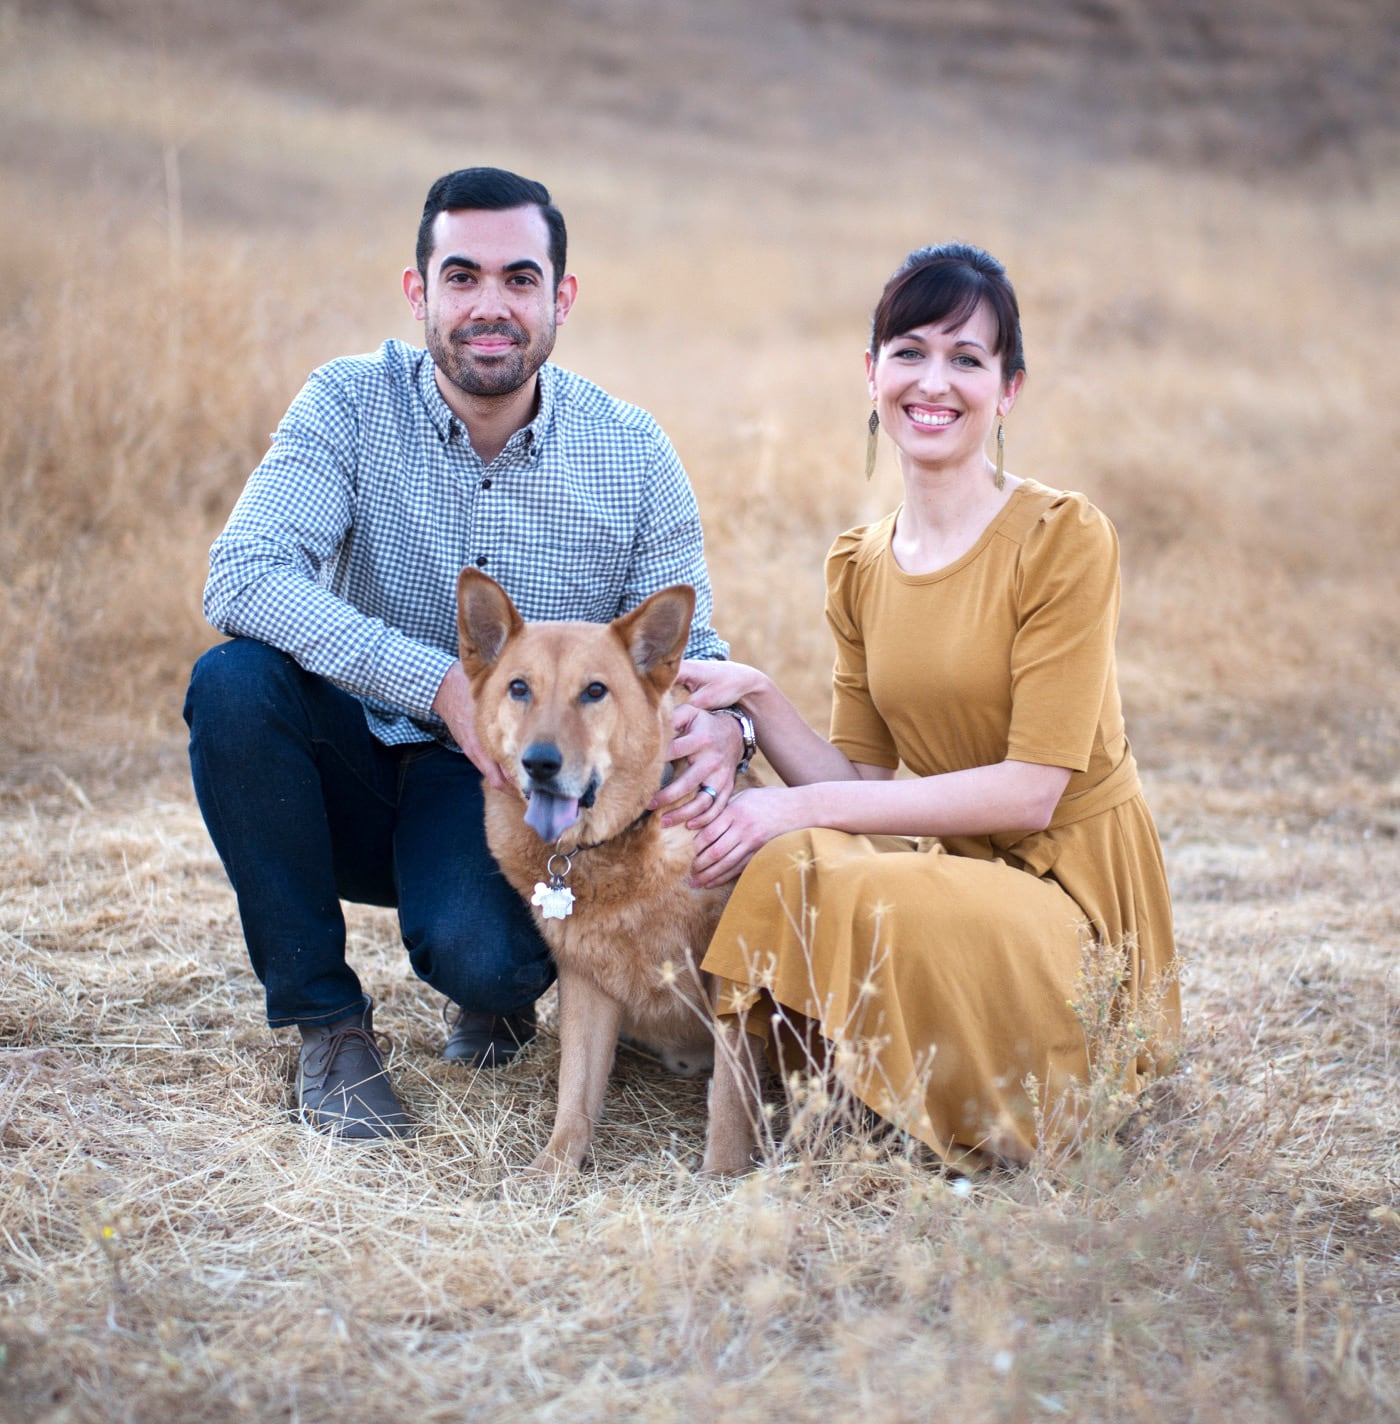
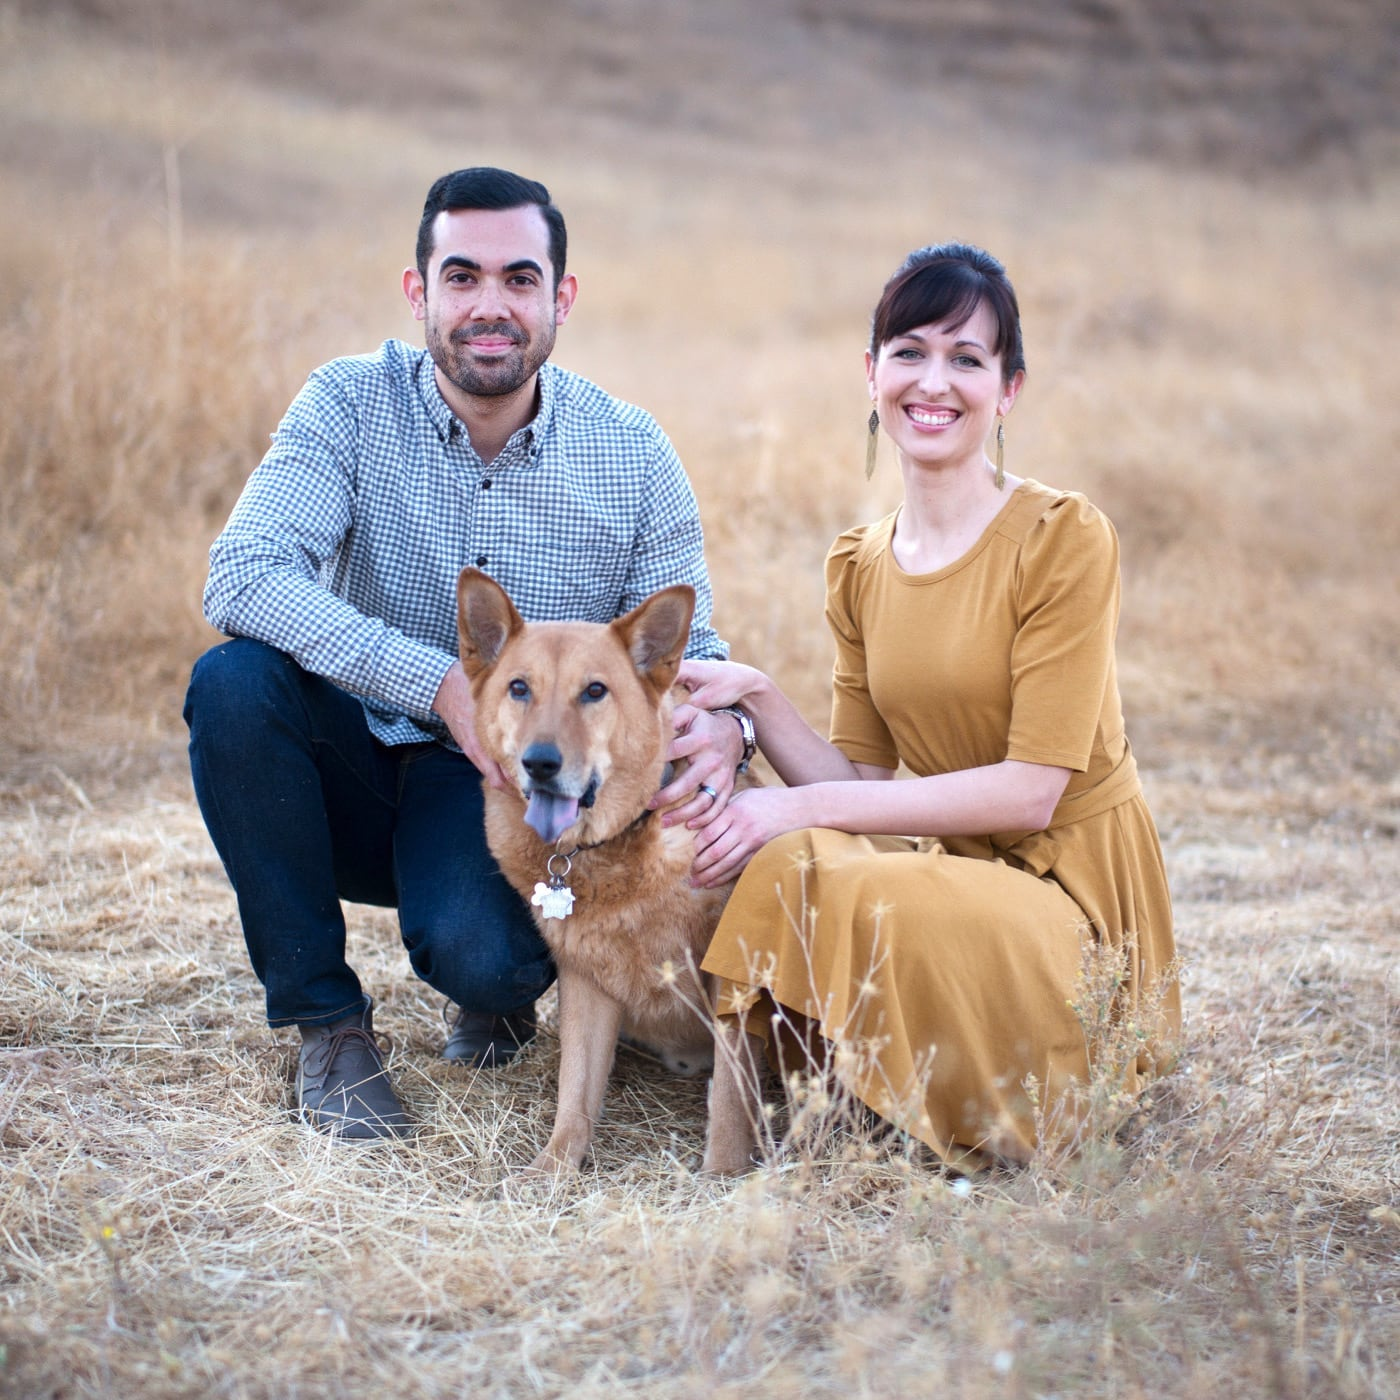
Fixed images again
Made them all ~square sizes so that they'll scale correctly with explicitly set height attributes

Changed region(s): [[0.0, 0.0921, 1.0, 1.0], [0.0, 0.3993, 0.0307, 0.43]]

diff --git a/css/styles.css b/css/styles.css
@@ -138,8 +138,8 @@ sub, sup {
   box-sizing: border-box;
   border-radius: 0.75em;
   transition: all 0.2s ease-in-out;
-  max-width: 100%;
-  height: 250px; }
+  margin: 1em 0;
+  height: 260px; }
   .home .image-item {
     height: auto;
     margin: auto; }
@@ -218,7 +218,7 @@ sub, sup {
     flex-direction: column; }
   .image-item {
     margin: 1em auto;
-    max-width: 100%;
+    width: 100%;
     height: auto; }
   a {
     word-break: break-word; }

diff --git a/css/3-layout/_layout.sass b/css/3-layout/_layout.sass
@@ -21,10 +21,9 @@
   box-sizing: border-box
   border-radius: $radius
   transition: all 0.2s ease-in-out
-  // margin: 1em 0
-  max-width: 100%
+  margin: 1em 0
   // Necessary. Sigh.
-  height: 250px
+  height: 260px
 
   .home &
     height: auto

diff --git a/css/2-modules/_media-queries.sass b/css/2-modules/_media-queries.sass
@@ -41,7 +41,7 @@
 
   .image-item
     margin: 1em auto
-    max-width: 100%
+    width: 100%
     height: auto
 
   a
